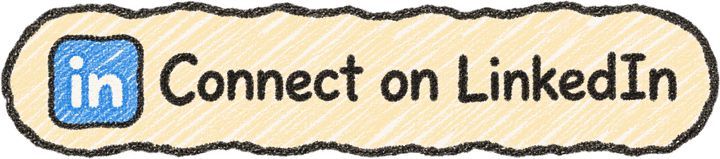
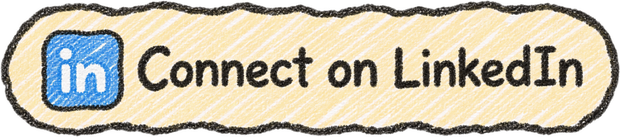
feat: Stack as inline hand-drawn badges (no table), new contact buttons
Claude-Session: https://claude.ai/code/session_01TRt6xKjM4WueVeKvVqTrCH

diff --git a/README.md b/README.md
@@ -30,10 +30,28 @@
 <h3 align="center"><img src="assets/h-stack.jpg" width="100%" alt="Stack" /></h3>
 
 <p align="center">
-  <img src="assets/stack.png" width="100%" alt="Stack. Languages: TypeScript, JavaScript, Python, Go. Frontend: Next.js, React, Tailwind CSS. Backend and AI: NestJS, FastAPI, Prisma, LangChain, LangGraph. Data and infra: PostgreSQL, Redis, RabbitMQ, Docker." />
+  <img src="assets/badges/typescript.png" height="40" alt="TypeScript" />
+  <img src="assets/badges/javascript.png" height="40" alt="JavaScript" />
+  <img src="assets/badges/python.png" height="40" alt="Python" />
+  <img src="assets/badges/go.png" height="40" alt="Go" />
+  <br />
+  <img src="assets/badges/nextjs.png" height="40" alt="Next.js" />
+  <img src="assets/badges/react.png" height="40" alt="React" />
+  <img src="assets/badges/tailwind.png" height="40" alt="Tailwind CSS" />
+  <br />
+  <img src="assets/badges/nestjs.png" height="40" alt="NestJS" />
+  <img src="assets/badges/fastapi.png" height="40" alt="FastAPI" />
+  <img src="assets/badges/prisma.png" height="40" alt="Prisma" />
+  <img src="assets/badges/langchain.png" height="40" alt="LangChain" />
+  <img src="assets/badges/langgraph.png" height="40" alt="LangGraph" />
+  <br />
+  <img src="assets/badges/postgresql.png" height="40" alt="PostgreSQL" />
+  <img src="assets/badges/redis.png" height="40" alt="Redis" />
+  <img src="assets/badges/rabbitmq.png" height="40" alt="RabbitMQ" />
+  <img src="assets/badges/docker.png" height="40" alt="Docker" />
 </p>
 
 <p align="center">
-  <a href="https://facebook.com/Fi.is.me.hello"><img src="assets/btn-facebook.png" width="300" alt="Connect on Facebook" /></a>
-  <a href="https://www.linkedin.com/in/phi-nguy%E1%BB%85n-7351ab3b5"><img src="assets/btn-linkedin.png" width="300" alt="Connect on LinkedIn" /></a>
+  <a href="https://facebook.com/Fi.is.me.hello"><img src="assets/btn-facebook.png" width="290" alt="Connect on Facebook" /></a>
+  <a href="https://www.linkedin.com/in/phi-nguy%E1%BB%85n-7351ab3b5"><img src="assets/btn-linkedin.png" width="290" alt="Connect on LinkedIn" /></a>
 </p>
